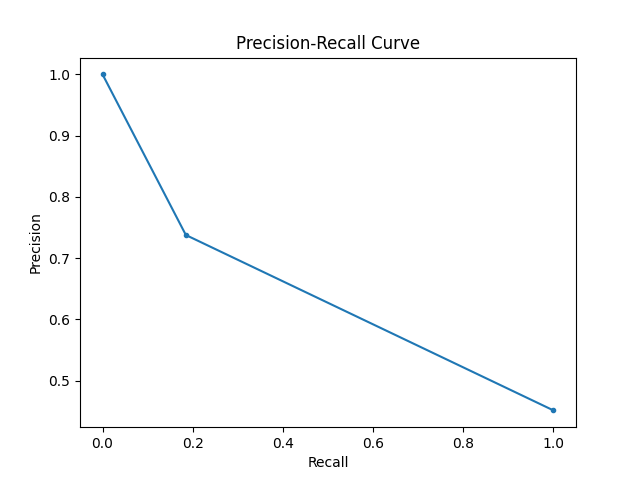
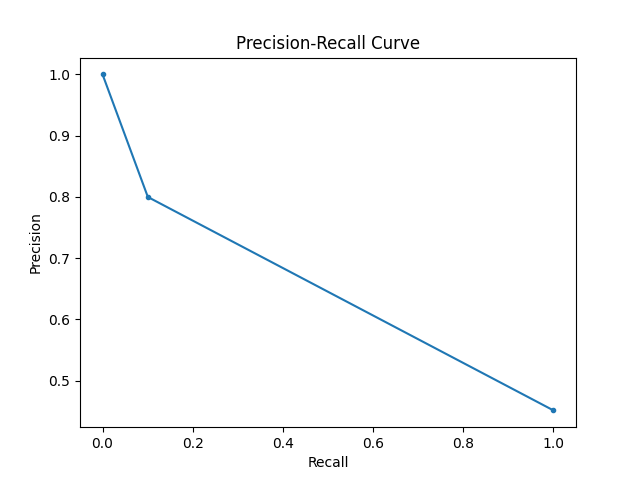
Update README with metrics and test results

Changed region(s): [[0.1562, 0.1562, 0.6562, 0.7188], [0.75, 0.7812, 0.8438, 0.8438], [0.6562, 0.7188, 0.75, 0.7812]]

diff --git a/README.md b/README.md
@@ -1,11 +1,11 @@
 ![Pylint Score](https://img.shields.io/badge/pylint-10.00-brightgreen)
 ![Ruff Issues](https://img.shields.io/badge/ruff-0_issues-brightgreen)
 
-![accuracy](https://img.shields.io/badge/accuracy-0.6024-blue)
-![precision](https://img.shields.io/badge/precision-0.7377-blue)
-![recall](https://img.shields.io/badge/recall-0.1848-blue)
-![f1](https://img.shields.io/badge/f1-0.2955-blue)
-![roc_auc](https://img.shields.io/badge/roc_auc-0.5654-blue)
+![accuracy](https://img.shields.io/badge/accuracy-0.5827-blue)
+![precision](https://img.shields.io/badge/precision-0.7998-blue)
+![recall](https://img.shields.io/badge/recall-0.1005-blue)
+![f1](https://img.shields.io/badge/f1-0.1785-blue)
+![roc_auc](https://img.shields.io/badge/roc_auc-0.5399-blue)
 
 ![Test Status](https://img.shields.io/badge/tests-failed-red)
 
@@ -152,10 +152,10 @@ dvc plots show
 ```
 
 ### Confusion Matric
-![ROC Curve](https://raw.githubusercontent.com/remla24-02/model-training/dvc_rework/evaluation_results/plots/roc.png)
+![ROC Curve](https://raw.githubusercontent.com/remla24-02/model-training/main/evaluation_results/plots/roc.png)
 
 ### ROC Curve
-![ROC Curve](https://raw.githubusercontent.com/remla24-02/model-training/dvc_rework/evaluation_results/plots/roc.png)
+![ROC Curve](https://raw.githubusercontent.com/remla24-02/model-training/main/evaluation_results/plots/roc.png)
 
 ### Precision-Recall
-![ROC Curve](https://raw.githubusercontent.com/remla24-02/model-training/dvc_rework/evaluation_results/plots/roc.png)
+![ROC Curve](https://raw.githubusercontent.com/remla24-02/model-training/main/evaluation_results/plots/roc.png)
